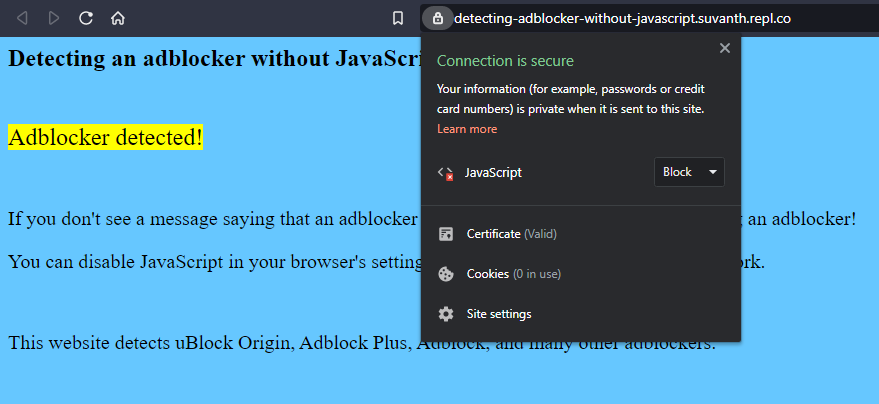
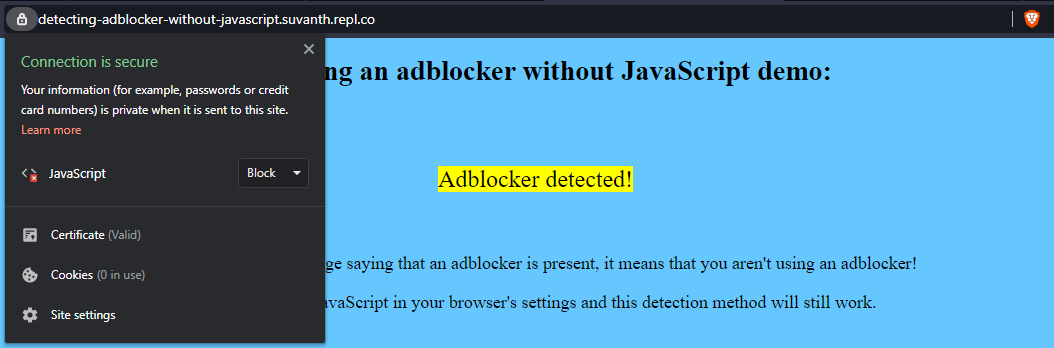
Change top half of website's layout

diff --git a/index.html b/index.html
@@ -24,7 +24,7 @@
     </script>
 	<title>Detect Adblockers without JavaScript</title>
 	<link rel="icon" href="/webIcon.PNG" type="image/x-icon">
-	<style>
+    <style>
 		:root {
 			background-color: #66c7ff;
 		}
@@ -33,7 +33,7 @@
 			position: absolute;
 			background-color: #66c7ff;
 			height: 50px;
-			width: 200px;
+			width: 1100px;
 		}
 
 		.statement {
@@ -48,72 +48,76 @@
 
 		.textLarge {
 			font-family: "Times New Roman", Times, serif;
-			font-size: 24px;
+			font-size: 28px;
+            text-align: center;
 		}
 
 		.img {
 			display: compact;
 			border: 5px solid #ff0000;
 		}
+
+        .center {
+            text-align: center;
+        }
 	</style>
 </head>
 
 <body>
 	<h1 class="textLarge">
 		Detecting an adblocker <b>without</b> JavaScript demo:
-  </h1> 
-  <br><br>
-  <div id="adsbox" class="adsbox"></div>
-  <div id="statement" class="statement">
-  <mark>Adblocker detected!</mark>
-  </div>
-  <br>
-  <br>
-  <p class="text">
-  If you don't see a message saying that an adblocker is present, it means that you aren't using an adblocker!
-  </p>
-  <p class="text">
-  You can disable JavaScript in your browser's settings and this detection method will still work.
-  </p>
-  <br><br>
-  <img src="/WithAdblockNoJS.PNG" alt="AdblockAnddisableJavaScriptIMG" width="675" height="315" class="img" hspace="75"></img>
-  <img src="/WithNoAdblockNoJS.PNG" alt="NoAdblockAnddisableJavaScriptIMG" width="675" height="315" class="img" hspace="75"></img>
-  <br><br>
-  <p class="text">
-  This website detects uBlock Origin, Adblock Plus, Adblock, and many other adblockers.
-  </p>
-  <p class="text">
-  So why does this work?
-  <br><br>
-  The truth: There is no actual detection being done by the website. It just claims it detects adblockers. What really happens is the "Adblocker detected!" text is always there even if you aren't using an adblocker. The text is covered by a hidden division element (div) with the id "adsbox". If the user is using an adblocker, the adblocker believes that the div must be an advertisement since the div's id says "adsbox". So the adblocker removes it, thus revealing the message that an adblocker was detected. This can be used to greater measure and this is just a simple demo. Clever right? 
-  <br><br>
-  The issue is, a lot websites these days usually display their advertisements in a very unethical manner which is where adblock are useful. However, without a way to make income, websites have no choice but are forced to block users using adblockers (which adblockers sometimes unblock). Advertisements should be shown (albeit in a fair manner) as the website has to pay for hosting the site.
-  <br><br>
-  How can this be used in normal websites as this is just a demo:
-  <br><br>
-  It's not as easy as you would with JavaScript, but you could create a banner at the top of your website and either hide or show a message asking kindly to not use an adblocker. It's really just preference.
-  <br><br>
-  Can users remove this message?
-  <br><br>
-  Unfortunately, yes. Using inspect element, a bookmarklet, a userscript, or an extension, the user can hide the message. However, if the user has JavaScript enabled, you can just detect if the message is deleted and then use JavaScript to reload your website.
-  <br><br>
-  So why did I not use JavaScript? 
-  <br><br>
-  The user can easily disable JavaScript in site settings and the whole point is for websites to use this method to kindly ask the user to disable their adblocker if present.
-  <br><br>
-  P.S. If you are a person who uses an Adblocker consider enabling the acceptable ads option in your adblocker's settings if there is an option and you haven't already done it. If you are an Adblocker developer, please consider adding an acceptable ads option if you haven't already.
-  <br><br>
-  External references:
-  <br>
-  <ul>
-  <li><a href="https://stackoverflow.com/questions/4869154/how-to-detect-adblock-on-my-website">Stackoverflow post on how to detect adblockers</a><br>
-    <li><a href="https://www.detectadblock.com/">Detect adblock website</a><br>
-    <li><a href="https://www.blockadblock.com/">Blockadblock website</a><br>
-    <li><a href="https://www.adpushup.com/blog/detect-ad-blockers/">Detect adblockers</a><br>
-    <li><a href="https://w3guy.com/detecting-adblock/">Ultimate Guide to Detecting adblock</a><br>
-    <li><a href="https://jonathanmh.com/how-to-detect-ad-blockers-adblock-ublock-etc/">How To: Detect Ad Blockers (adblock, uBlock, etc)</a><br>
-  </ul>
-  </p>
-  <p class="text"><strong>© Suvanth Erranki 2021</strong></p>
+    </h1> 
+    <br><br>
+    <div class="center">
+    <div id="adsbox" class="adsbox"></div>
+    <p id="statement" class="statement">
+    <mark>Adblocker detected!</mark>
+    </p>
+    <br>
+    <p class="text">
+    If you don't see a message saying that an adblocker is present, it means that you aren't using an adblocker!
+    </p>
+    <p class="text">
+    You can disable JavaScript in your browser's settings and this detection method will still work.
+    </p>
+    </div>
+    <br><br>
+    <img src="/WithAdblockNoJS.PNG" alt="AdblockAnddisableJavaScriptIMG" width="825" height="300" class="img" hspace="50"></img>
+    <img src="/WithNoAdblockNoJS.PNG" alt="NoAdblockAnddisableJavaScriptIMG" width="825" height="300" class="img" hspace="50"></img>
+    <br><br>
+    <p class="text">
+    This website detects uBlock Origin, Adblock Plus, Adblock, and many other adblockers. So why does this work?
+    </p>
+    <p class="text">
+    The truth: There is no actual detection being done by the website. It just claims it detects adblockers. What really happens is the "Adblocker detected!" text is always there even if you aren't using an adblocker. The text is covered by a hidden division element (div) with the id "adsbox". If the user is using an adblocker, the adblocker believes that the div must be an advertisement since the div's id says "adsbox". So the adblocker removes it, thus revealing the message that an adblocker was detected. This can be used to greater measure and this is just a simple demo. Clever right? 
+    <br><br>
+    The issue is, a lot websites these days usually display their advertisements in a very unethical manner which is where adblock are useful. However, without a way to make income, websites have no choice but are forced to block users using adblockers (which adblockers sometimes unblock). Advertisements should be shown (albeit in a fair manner) as the website has to pay for hosting the site.
+    <br><br>
+    How can this be used in normal websites as this is just a demo:
+    <br><br>
+    It's not as easy as you would with JavaScript, but you could create a banner at the top of your website and either hide or show a message asking kindly to not use an adblocker. It's really just preference.
+    <br><br>
+    Can users remove this message?
+    <br><br>
+    Unfortunately, yes. Using inspect element, a bookmarklet, a userscript, or an extension, the user can hide the message. However, if the user has JavaScript enabled, you can just detect if the message is deleted and then use JavaScript to reload your website.
+    <br><br>
+    So why did I not use JavaScript? 
+    <br><br>
+    The user can easily disable JavaScript in site settings and the whole point is for websites to use this method to kindly ask the user to disable their adblocker if present.
+    <br><br>
+    P.S. If you are a person who uses an Adblocker consider enabling the acceptable ads option in your adblocker's settings if there is an option and you haven't already done it. If you are an Adblocker developer, please consider adding an acceptable ads option if you haven't already.
+    <br><br>
+    External references:
+    <br>
+    <ul>
+    <li><a href="https://stackoverflow.com/questions/4869154/how-to-detect-adblock-on-my-website">Stackoverflow post on how to detect adblockers</a><br>
+        <li><a href="https://www.detectadblock.com/">Detect adblock website</a><br>
+        <li><a href="https://www.blockadblock.com/">Blockadblock website</a><br>
+        <li><a href="https://www.adpushup.com/blog/detect-ad-blockers/">Detect adblockers</a><br>
+        <li><a href="https://w3guy.com/detecting-adblock/">Ultimate Guide to Detecting adblock</a><br>
+        <li><a href="https://jonathanmh.com/how-to-detect-ad-blockers-adblock-ublock-etc/">How To: Detect Ad Blockers (adblock, uBlock, etc)</a><br>
+    </ul>
+    </p>
+    <p class="text"><strong>© Suvanth Erranki 2021</strong></p>
 </body>
 </html>
